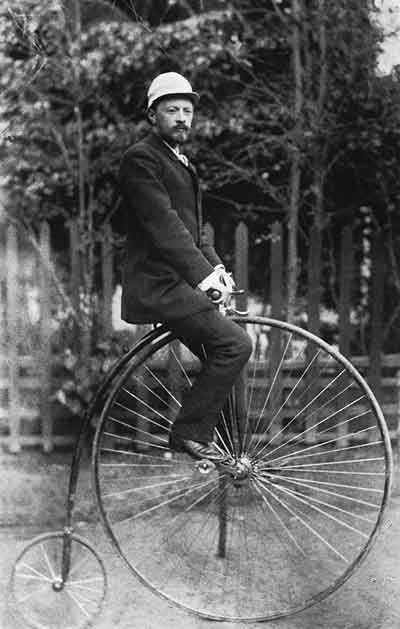
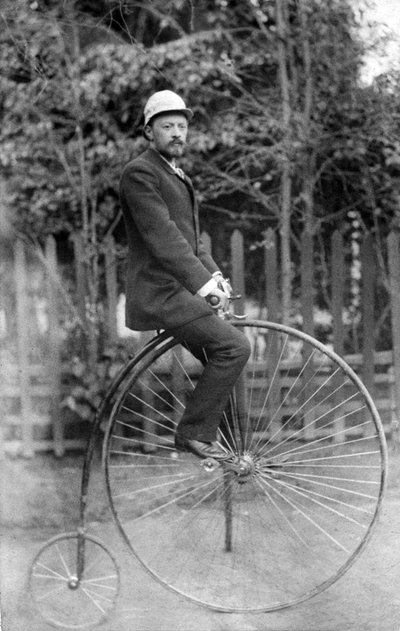
[agent] action: права на кадры музея изобретений (1, 5, 30 января) — перенос AI_Projects #1250
Из rc-museum-preview e7ae60ccf: rights.json (11 кадров), заменённые свободные кадры,
подписи с источником и основанием; подпись снимка 1912 г. исправлена по книге Котельникова.

diff --git a/src/data/full-pages/izobreteniya/01-05.html b/src/data/full-pages/izobreteniya/01-05.html
@@ -500,8 +500,8 @@
 <p><b>5 января 1878 года, Баку.</b> На нефтепромысле Балаханы запускают паровой насос. Нефть уходит в трёхдюймовую стальную трубу и — впервые в истории промышленности — сама течёт десять километров до нефтеперегонных заводов Чёрного города. Ни бочек. Ни подвод. Ни возчиков. У трубы стоит автор проекта — инженеру Владимиру Шухову двадцать четыре года.</p>
 
 <figure class="fig fig-side">
-  <img src="day-05jan-shukhov-portret.jpg" alt="Владимир Шухов в молодости: высокий лоб, борода, прямой взгляд" loading="lazy" width="200" height="302">
-  <figcaption>Шухов, начало 1890-х</figcaption>
+  <img src="day-05jan-shukhov-portret.jpg" alt="Владимир Шухов в 1891 году: высокий лоб, борода, прямой взгляд" loading="lazy" width="200" height="302">
+  <figcaption>Шухов, 1891 год. Фото: неизвестный автор, Викисклад, общественное достояние.</figcaption>
 </figure>
 
 <p><b>Кто этот человек.</b> Выпускник Императорского технического училища. Пафнутий Чебышёв звал его на кафедру — Шухов отказался: чистая математика его не держала, он хотел строить. Потом про него скажут «первый инженер Российской империи» и «русский Леонардо». Нефть, вода, мосты, башни, котлы — любая задача. Он считал там, где другие работали на глазок.</p>
@@ -509,18 +509,18 @@
 <p><b>В чём была загвоздка.</b> Баку 1870-х — нефтяная столица мира, задыхавшаяся от собственной нефти. Добыть её научились, а вот доставить с промыслов на заводы — нет. Нефть заливали в деревянные бочки по двадцать с лишним пудов, ставили на арбы, и больше десяти тысяч возчиков днём и ночью тянулись через город. Пуд нефти стоил на промысле три копейки. Довезти этот же пуд до завода — до двадцати. Возчики держали монополию и цену, промышленники платили: выхода не было.</p>
 
 <figure class="fig" style="margin:22px 0">
-  <img src="day-05jan-shukhov-balakhany1880.jpg" alt="Нефтяной промысел Балаханы под Баку: деревянные вышки до горизонта, чёрная от нефти земля" loading="lazy" width="730" height="330">
-  <figcaption>Балаханы под Баку, 1880-е: деревянные вышки до горизонта, земля пропитана нефтью. Отсюда до заводов Чёрного города — десять километров.</figcaption>
+  <img src="day-05jan-shukhov-balakhany1880.jpg" alt="Скважины Бранобеля в Балаханах под Баку: деревянные вышки до горизонта, внизу промысловые постройки" loading="lazy" width="925" height="582">
+  <figcaption>Балаханы под Баку, около 1890 года: вышки Бранобеля до горизонта. Отсюда до заводов Чёрного города — десять километров. Фото: неизвестный автор, Викисклад, общественное достояние.</figcaption>
 </figure>
 
 <div class="figs">
   <figure class="fig">
-    <img src="day-05jan-shukhov-podvoda.jpg" alt="Лошадь, запряжённая в телегу с нефтяной бочкой, на промысле среди вышек" loading="lazy" width="730" height="341">
-    <figcaption>Вот что заменила труба: одна подвода, одна бочка, один возчик. Балаханы, 1890-е</figcaption>
+    <img src="day-05jan-shukhov-podvoda.jpg" alt="Конные телеги, гружённые пустыми нефтяными бочками" loading="lazy" width="730" height="438">
+    <figcaption>Вот что заменила труба: обоз везёт пустые нефтяные бочки обратно на промысел. Гравюра из книги Дж. Маклорина «Sketches in Crude Oil», 1902. Викисклад, общественное достояние.</figcaption>
   </figure>
   <figure class="fig">
-    <img src="day-05jan-shukhov-karavan.jpg" alt="Верблюжий караван с грузом у клёпаных нефтяных резервуаров" loading="lazy" width="730" height="420">
-    <figcaption>Верблюды у нефтяных резервуаров. Так возили нефть в том же Баку, где уже работал первый в мире нефтепровод</figcaption>
+    <img src="day-05jan-shukhov-karavan.jpg" alt="Погонщик ведёт навьюченного верблюда по голой степи" loading="lazy" width="730" height="421">
+    <figcaption>Бакинский нефтяной район, 1903 год: вьючный и гужевой транспорт жил здесь и через четверть века после первой трубы. Фото: А. В. Кронквист, Tekniska museet, Викисклад, CC BY 2.0.</figcaption>
   </figure>
 </div>
 
@@ -586,8 +586,8 @@
     <p style="color:var(--muted);max-width:62ch">Около двухсот изобретений — «первый инженер Российской империи» строил всё: от котлов до башен.</p>
     <div class="card"><b style="color:var(--gold-l)">Крекинг нефти (1891)</b><p style="margin:6px 0 0">Разложение тяжёлой нефти на лёгкие фракции — основа производства бензина. Американцы запатентовали то же через 22 года и в 1923-м официально признали первенство Шухова.</p></div>
     <figure class="fig" style="max-width:420px">
-      <img src="day-05jan-shukhov-shabolovka.jpg" alt="Шуховская башня на Шаболовке: ажурная сетка секций на фоне неба" loading="lazy" width="400" height="400">
-      <figcaption>Шаболовская башня, 160 метров: шесть секций, ни одной гнутой детали</figcaption>
+      <img src="day-05jan-shukhov-shabolovka.jpg" alt="Шуховская башня на Шаболовке в начале 1930-х: ажурная сетка секций над пустырём" loading="lazy" width="400" height="400">
+      <figcaption>Шаболовская башня, 160 метров: шесть секций, ни одной гнутой детали. Начало 1930-х. Фото: Главархив Москвы, Викисклад, CC BY 4.0.</figcaption>
     </figure>
     <div class="card"><b style="color:var(--gold-l)">Гиперболоидные башни</b><p style="margin:6px 0 0">Ажурные сетки из прямых стержней — лёгкие и прочные. Та самая Шуховская башня на Шаболовке; задумывалась выше Эйфелевой, в 350 метров.</p></div>
     <div class="card"><b style="color:var(--gold-l)">Сетчатые перекрытия</b><p style="margin:6px 0 0">Стеклянные небеса ГУМа и Пушкинского музея держатся на шуховских конструкциях.</p></div>
@@ -831,8 +831,8 @@
     <div class="kicker">Инженер и его время</div>
     <h2 style="margin-bottom:6px">В это трудно поверить</h2>
     <figure class="fig fig-side">
-      <img src="day-05jan-shukhov-velo.jpg" alt="Молодой Шухов в костюме и кепи на высоком велосипеде-пенни-фартинге" loading="lazy" width="400" height="629">
-      <figcaption>Шухов на «пауке», 1880-е: инженер всерьёз увлекался велосипедным спортом</figcaption>
+      <img src="day-05jan-shukhov-velo.jpg" alt="Молодой Шухов в костюме и кепи на высоком велосипеде-пенни-фартинге" loading="lazy" width="400" height="631">
+      <figcaption>Шухов на «пауке», 1880-е: инженер всерьёз увлекался велосипедным спортом. Фото: неизвестный автор, Викисклад, общественное достояние.</figcaption>
     </figure>
     <div class="q"><h3><em>Факт 1</em>Ему вынесли приговор — расстрел условно</h3><p>29 июня 1921 года при подъёме четвёртой секции башни на Шаболовке лопнула третья: конструкция рухнула, погибли рабочие. Комиссия установила причину — дефектный металл, вины инженера нет. Приговор Шухову тем не менее вынесли: расстрел с отсрочкой до окончания строительства. Он достраивал башню, зная, что при новой аварии приговор приведут в исполнение. В марте 1922 года комиссия приняла башню, началось радиовещание — и приговор отменили.</p></div>
     <div class="q"><h3><em>Факт 2</em>Башня должна была быть выше Эйфелевой</h3><p>В первом проекте — 350 метров против 305 у Эйфелевой, и при этом втрое легче по металлу. Проект не приняли: страна выходила из Гражданской войны, столько железа взять было негде. Построили 160 метров — и всё равно получили конструкцию, которую сто лет спустя копируют по всему миру, от портовых мачт до небоскрёбов.</p></div>

diff --git a/src/data/full-pages/izobreteniya/01-30.html b/src/data/full-pages/izobreteniya/01-30.html
@@ -328,21 +328,21 @@
         <p><b>24 сентября 1910 года, петербургский аэродром.</b> На празднике воздухоплавания тысячи зрителей смотрят в небо. Один из лучших авиаторов, капитан Лев Мациевич, поднимается на 400 метров — и его аэроплан разваливается прямо в воздухе. Спастись нечем: парашютов в авиации тогда не было.</p>
         <p class="pull">На праздник пришёл актёр, а ушёл — изобретатель.</p>
         <figure style="margin:18px 0">
-          <img src="portrait-real.jpg" alt="Глеб Евгеньевич Котельников" style="width:100%;max-width:320px;border-radius:14px;display:block;margin:0 auto">
-          <figcaption style="font-size:13px;color:var(--muted);margin-top:6px;text-align:center">Глеб Котельников — актёр, ставший изобретателем.</figcaption>
+          <img src="portrait-real.jpg" alt="Глеб Евгеньевич Котельников, портрет из его книги 1938 года" style="width:100%;max-width:320px;border-radius:14px;display:block;margin:0 auto">
+          <figcaption style="font-size:13px;color:var(--muted);margin-top:6px;text-align:center">Глеб Котельников — актёр, ставший изобретателем. Портрет из его книги «История одного изобретения» (1938), Викисклад, общественное достояние.</figcaption>
         </figure>
         <p>В толпе стоит актёр Народного дома Глеб Котельников. Эта смерть его не отпускает. Он решает: у лётчика должно быть спасение, которое всегда при нём.</p>
         <p><b>Идея из платка.</b> Рассказывают, что подсказку дал дамский шёлковый платок — маленький, а разворачивается в целое полотно. Историки спорят, было ли так, но шёлк стал ключом: вместо тяжёлого брезента — лёгкая ткань, что прячется в компактный ранец.</p>
         <p><b>РК-1.</b> Купол из шёлка в ранце за спиной, пружины, вытяжное кольцо. Дёрнул — купол выброшен в поток и раскрылся. Первый в мире ранцевый парашют свободного действия: раскрытие зависит от человека, а не от самолёта.</p>
         <figure style="margin:18px 0">
-          <img src="rk1-scheme.jpg" alt="Схема ранцевого парашюта РК-1: лётчик с ранцем, раскрытый купол и укладка" style="width:100%;background:#f0f4f8;border:1px solid rgba(255,255,255,.1);border-radius:14px;display:block;padding:14px">
-          <figcaption style="font-size:13px;color:var(--muted);margin-top:6px">Устройство РК-1: ранец за спиной, раскрытый шёлковый купол и схема укладки строп.</figcaption>
+          <img src="rk1-scheme.jpg" alt="Рисунок из книги Котельникова: раскрытый купол парашюта и вид купола сверху" style="width:100%;background:#f0f4f8;border:1px solid rgba(255,255,255,.1);border-radius:14px;display:block;padding:14px">
+          <figcaption style="font-size:13px;color:var(--muted);margin-top:6px">Первый русский ранцевый парашют, 1911: купол в раскрытом виде и вид сверху. Рисунок из книги Г. Котельникова «История одного изобретения» (1938), Викисклад, общественное достояние.</figcaption>
         </figure>
         <p><b>Иван Иванович.</b> Манекен для испытаний Котельников с юмором звал Иваном Ивановичем — 80-килограммовую куклу роняли с крыши, с воздушного змея и с аэростата. 6 (19) июня 1912 года под Петербургом РК-1 сработал безупречно.</p>
         <p><b>Горькая часть.</b> Дома изобретение отвергли: великий князь счёл, что с парашютом лётчики будут прыгать, бросая дорогие аэропланы. Патент пришлось брать во Франции, и первый прыжок человека в 1913-м сделали тоже за границей — в Руане.</p>
         <figure style="margin:18px 0">
-          <img src="test1912.jpg" alt="Испытания парашюта Котельникова" style="width:100%;border-radius:14px;display:block">
-          <figcaption style="font-size:13px;color:var(--muted);margin-top:6px">Подлинное фото: Котельников (в экипировке) на испытаниях парашюта, начало 1910-х.</figcaption>
+          <img src="test1912.jpg" alt="Испытание парашюта 6 июня 1912 года: военные и гражданские у корзины аэростата перед подъёмом" style="width:100%;border-radius:14px;display:block">
+          <figcaption style="font-size:13px;color:var(--muted);margin-top:6px">Подлинное фото: испытание парашюта 6 июня 1912 года, перед подъёмом аэростата. В книге Котельникова на снимке отмечены пилот Горшков и В. Ломач. «История одного изобретения» (1938), Викисклад, общественное достояние.</figcaption>
         </figure>
         <p style="color:var(--gold-l);font-weight:600">А ещё парашют — не единственное, что он придумал. После РК-1 Котельников создал целое семейство парашютов и подарил их все своей стране.</p>
         <div style="text-align:center;margin:12px 0 4px">
@@ -459,7 +459,7 @@
 <section class="block" id="chat-sec">
   <div class="wrap">
     <div style="display:flex;align-items:center;gap:14px;margin-bottom:6px;flex-wrap:wrap">
-      <img src="kotelnikov.jpg" alt="Котельников" style="width:60px;height:60px;border-radius:50%;object-fit:cover;border:2px solid var(--gold);box-shadow:0 2px 8px rgba(0,0,0,.15)">
+      <img src="kotelnikov.jpg" alt="Котельников" title="Котельников с ранцевым парашютом РК-1, 1910-е. Фото: неизвестный автор, Русская Википедия, общественное достояние" style="width:60px;height:60px;border-radius:50%;object-fit:cover;border:2px solid var(--gold);box-shadow:0 2px 8px rgba(0,0,0,.15)">
       <h2 style="margin:0">Спроси Глеба Котельникова</h2>
     </div>
     <p style="color:var(--muted);margin-top:0;max-width:62ch">Задай Котельникову вопрос — он ответит своими словами. Он помнит свою жизнь, парашют, испытания, борьбу за изобретение и другие свои работы. Спрашивай о чём угодно.</p>

diff --git a/src/data/full-pages/izobreteniya/01-01.html b/src/data/full-pages/izobreteniya/01-01.html
@@ -436,10 +436,11 @@
 <section class="block" id="chat-sec">
   <div class="wrap">
     <div style="display:flex;align-items:center;gap:14px;margin-bottom:6px;flex-wrap:wrap">
-      <img src="cabletv-engineer.jpg" alt="Инженер узла" style="width:60px;height:60px;border-radius:50%;object-fit:cover;border:2px solid var(--gold);box-shadow:0 2px 8px rgba(0,0,0,.15)">
+      <img src="cabletv-engineer.jpg" alt="Телевизор Б-2, 1935 год" title="Телевизор Б-2 (1935), Музей радио, Екатеринбург. Фото: Игорь Н. Иванов, Викисклад, CC BY-SA 3.0" style="width:60px;height:60px;border-radius:50%;object-fit:cover;border:2px solid var(--gold);box-shadow:0 2px 8px rgba(0,0,0,.15)">
       <h2 style="margin:0">Спроси инженера узла</h2>
     </div>
     <p style="color:var(--muted);margin-top:0;max-width:62ch">Задай вопрос инженеру телевизионного узла на Петровском бульваре — он ответит как человек 1939 года. Помнит стройку узла, приёмники АТП-1, жильцов дома и судьбу своей сети. Спрашивай о чём угодно.</p>
+    <p style="color:var(--muted);font-size:12px;margin:-4px 0 10px">На значке — телевизор Б-2 (1935), Музей радио, Екатеринбург. Фото: Игорь Н. Иванов, Викисклад, CC BY-SA 3.0.</p>
     <div id="chat" class="card" style="min-height:120px"></div>
     <div id="suggest" style="margin:8px 0"></div>
     <div style="display:flex;gap:8px">
